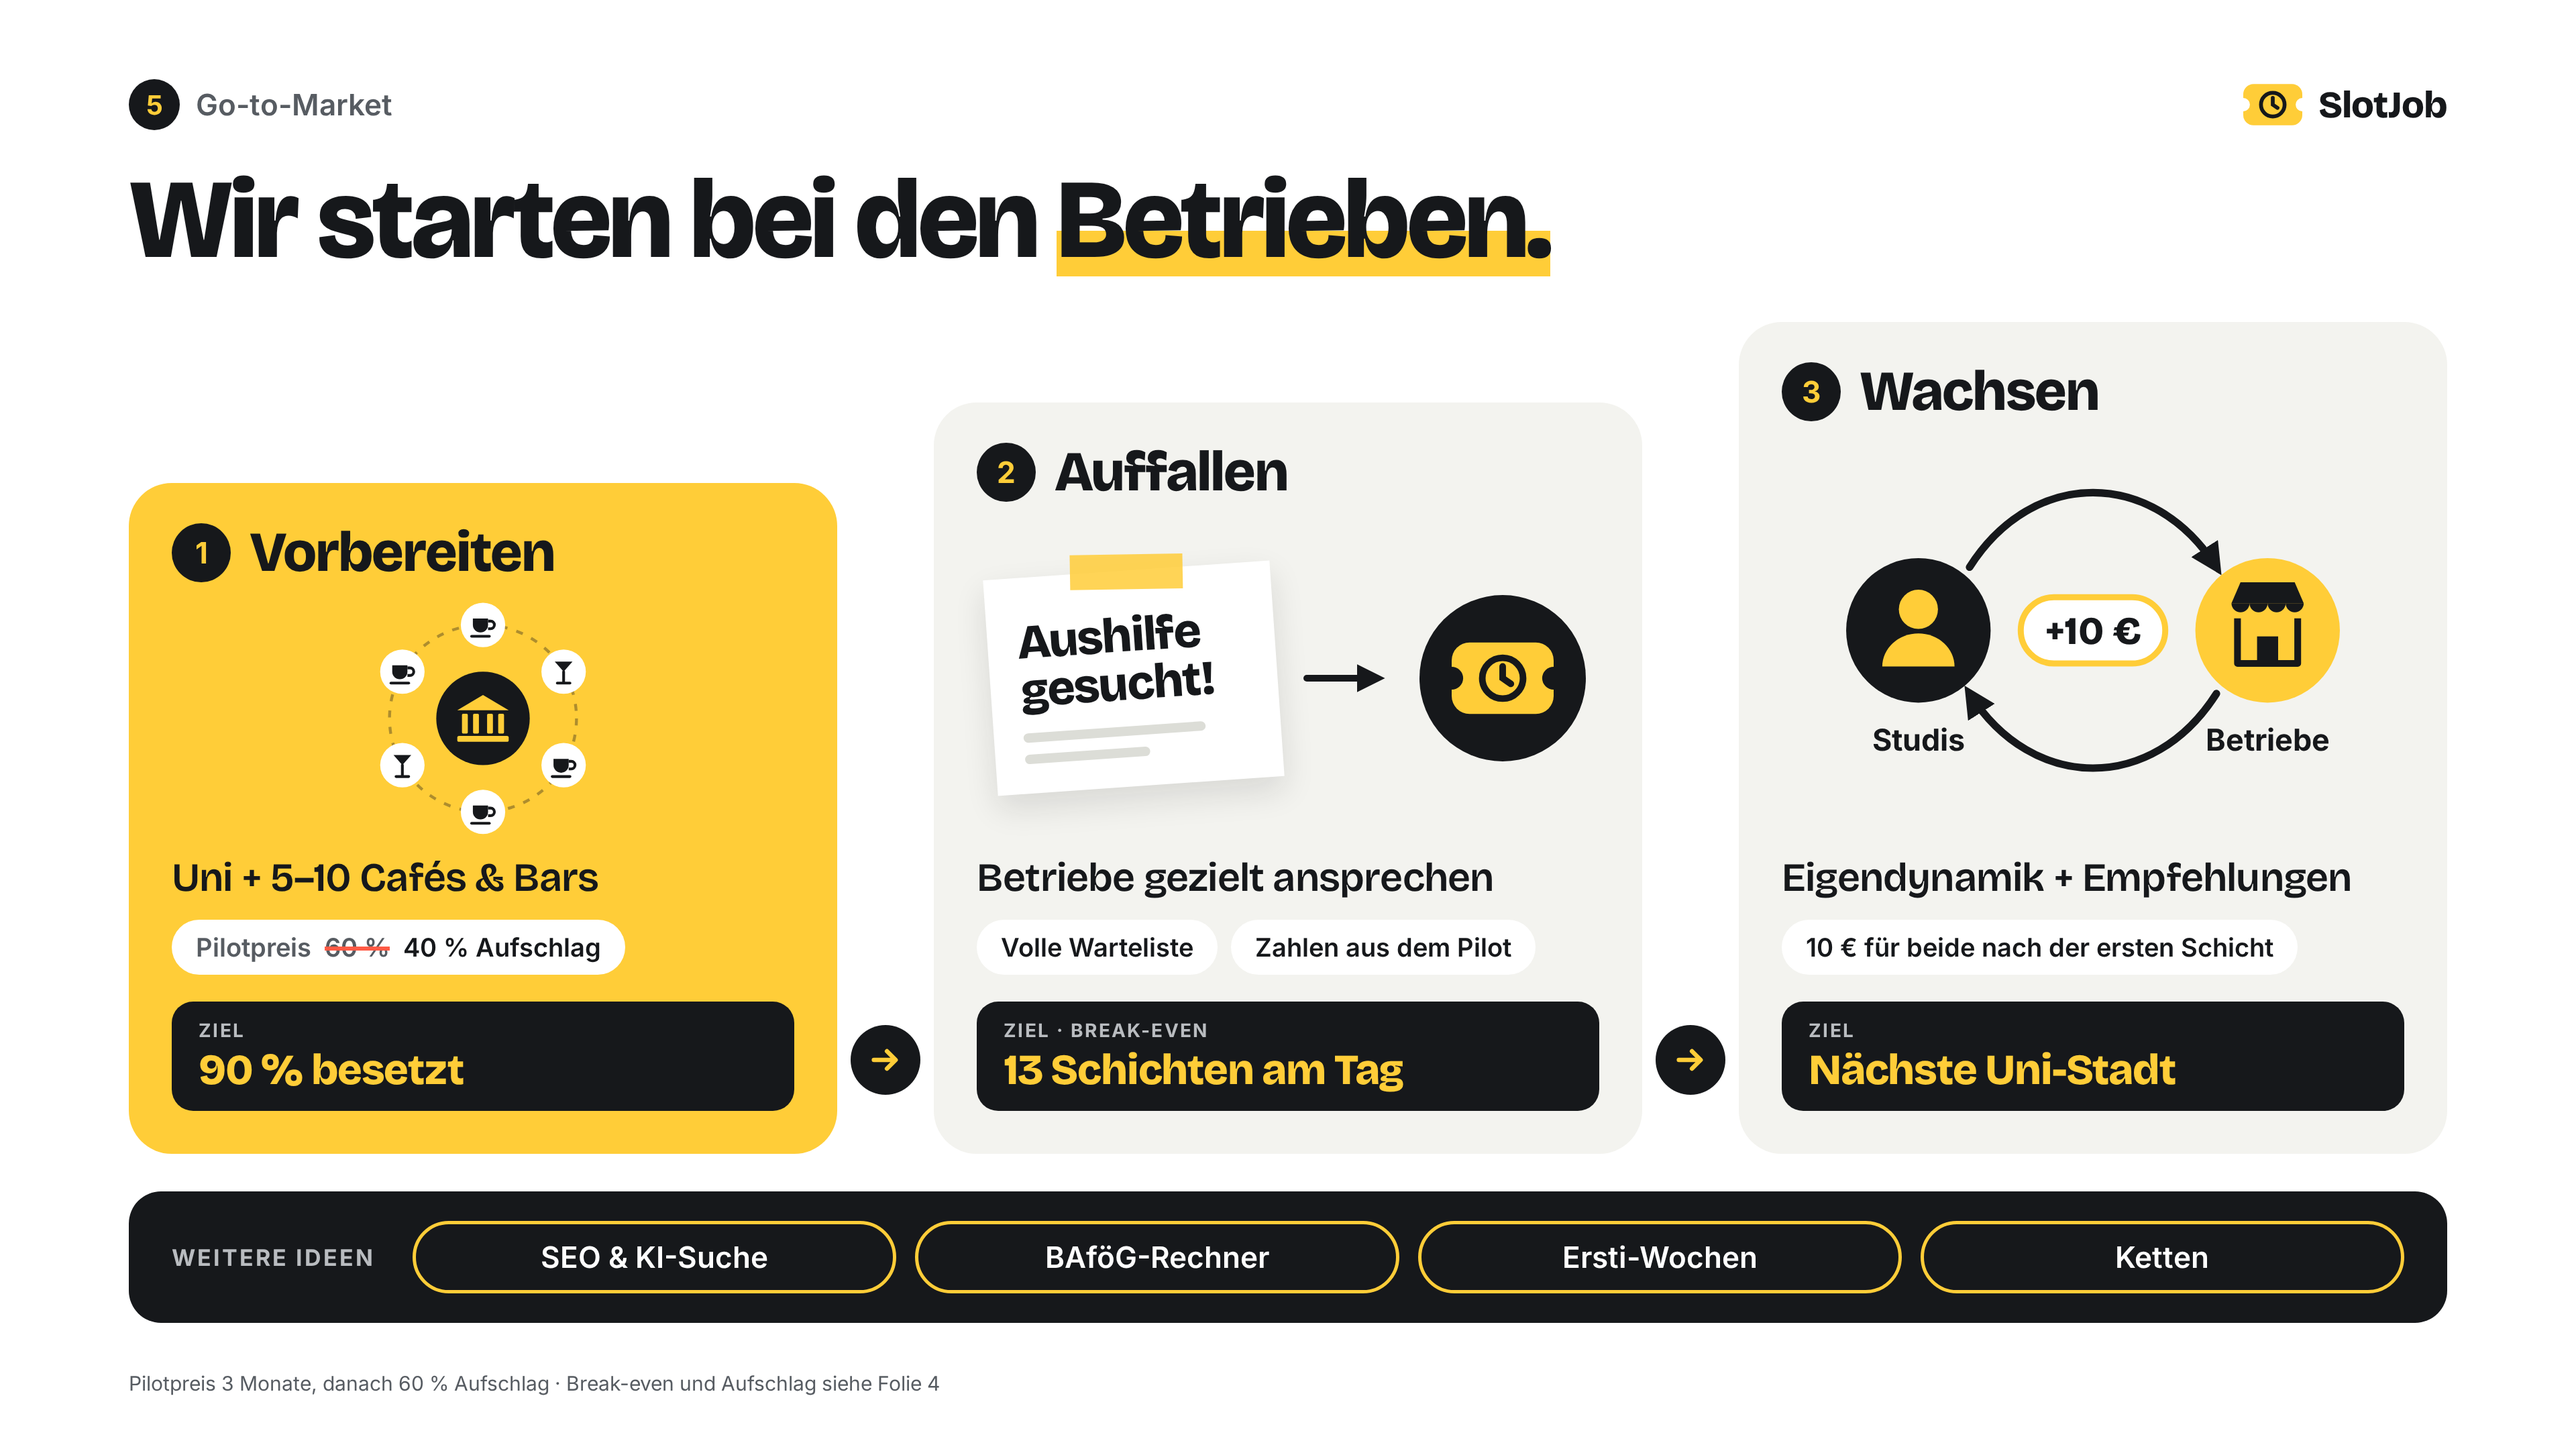
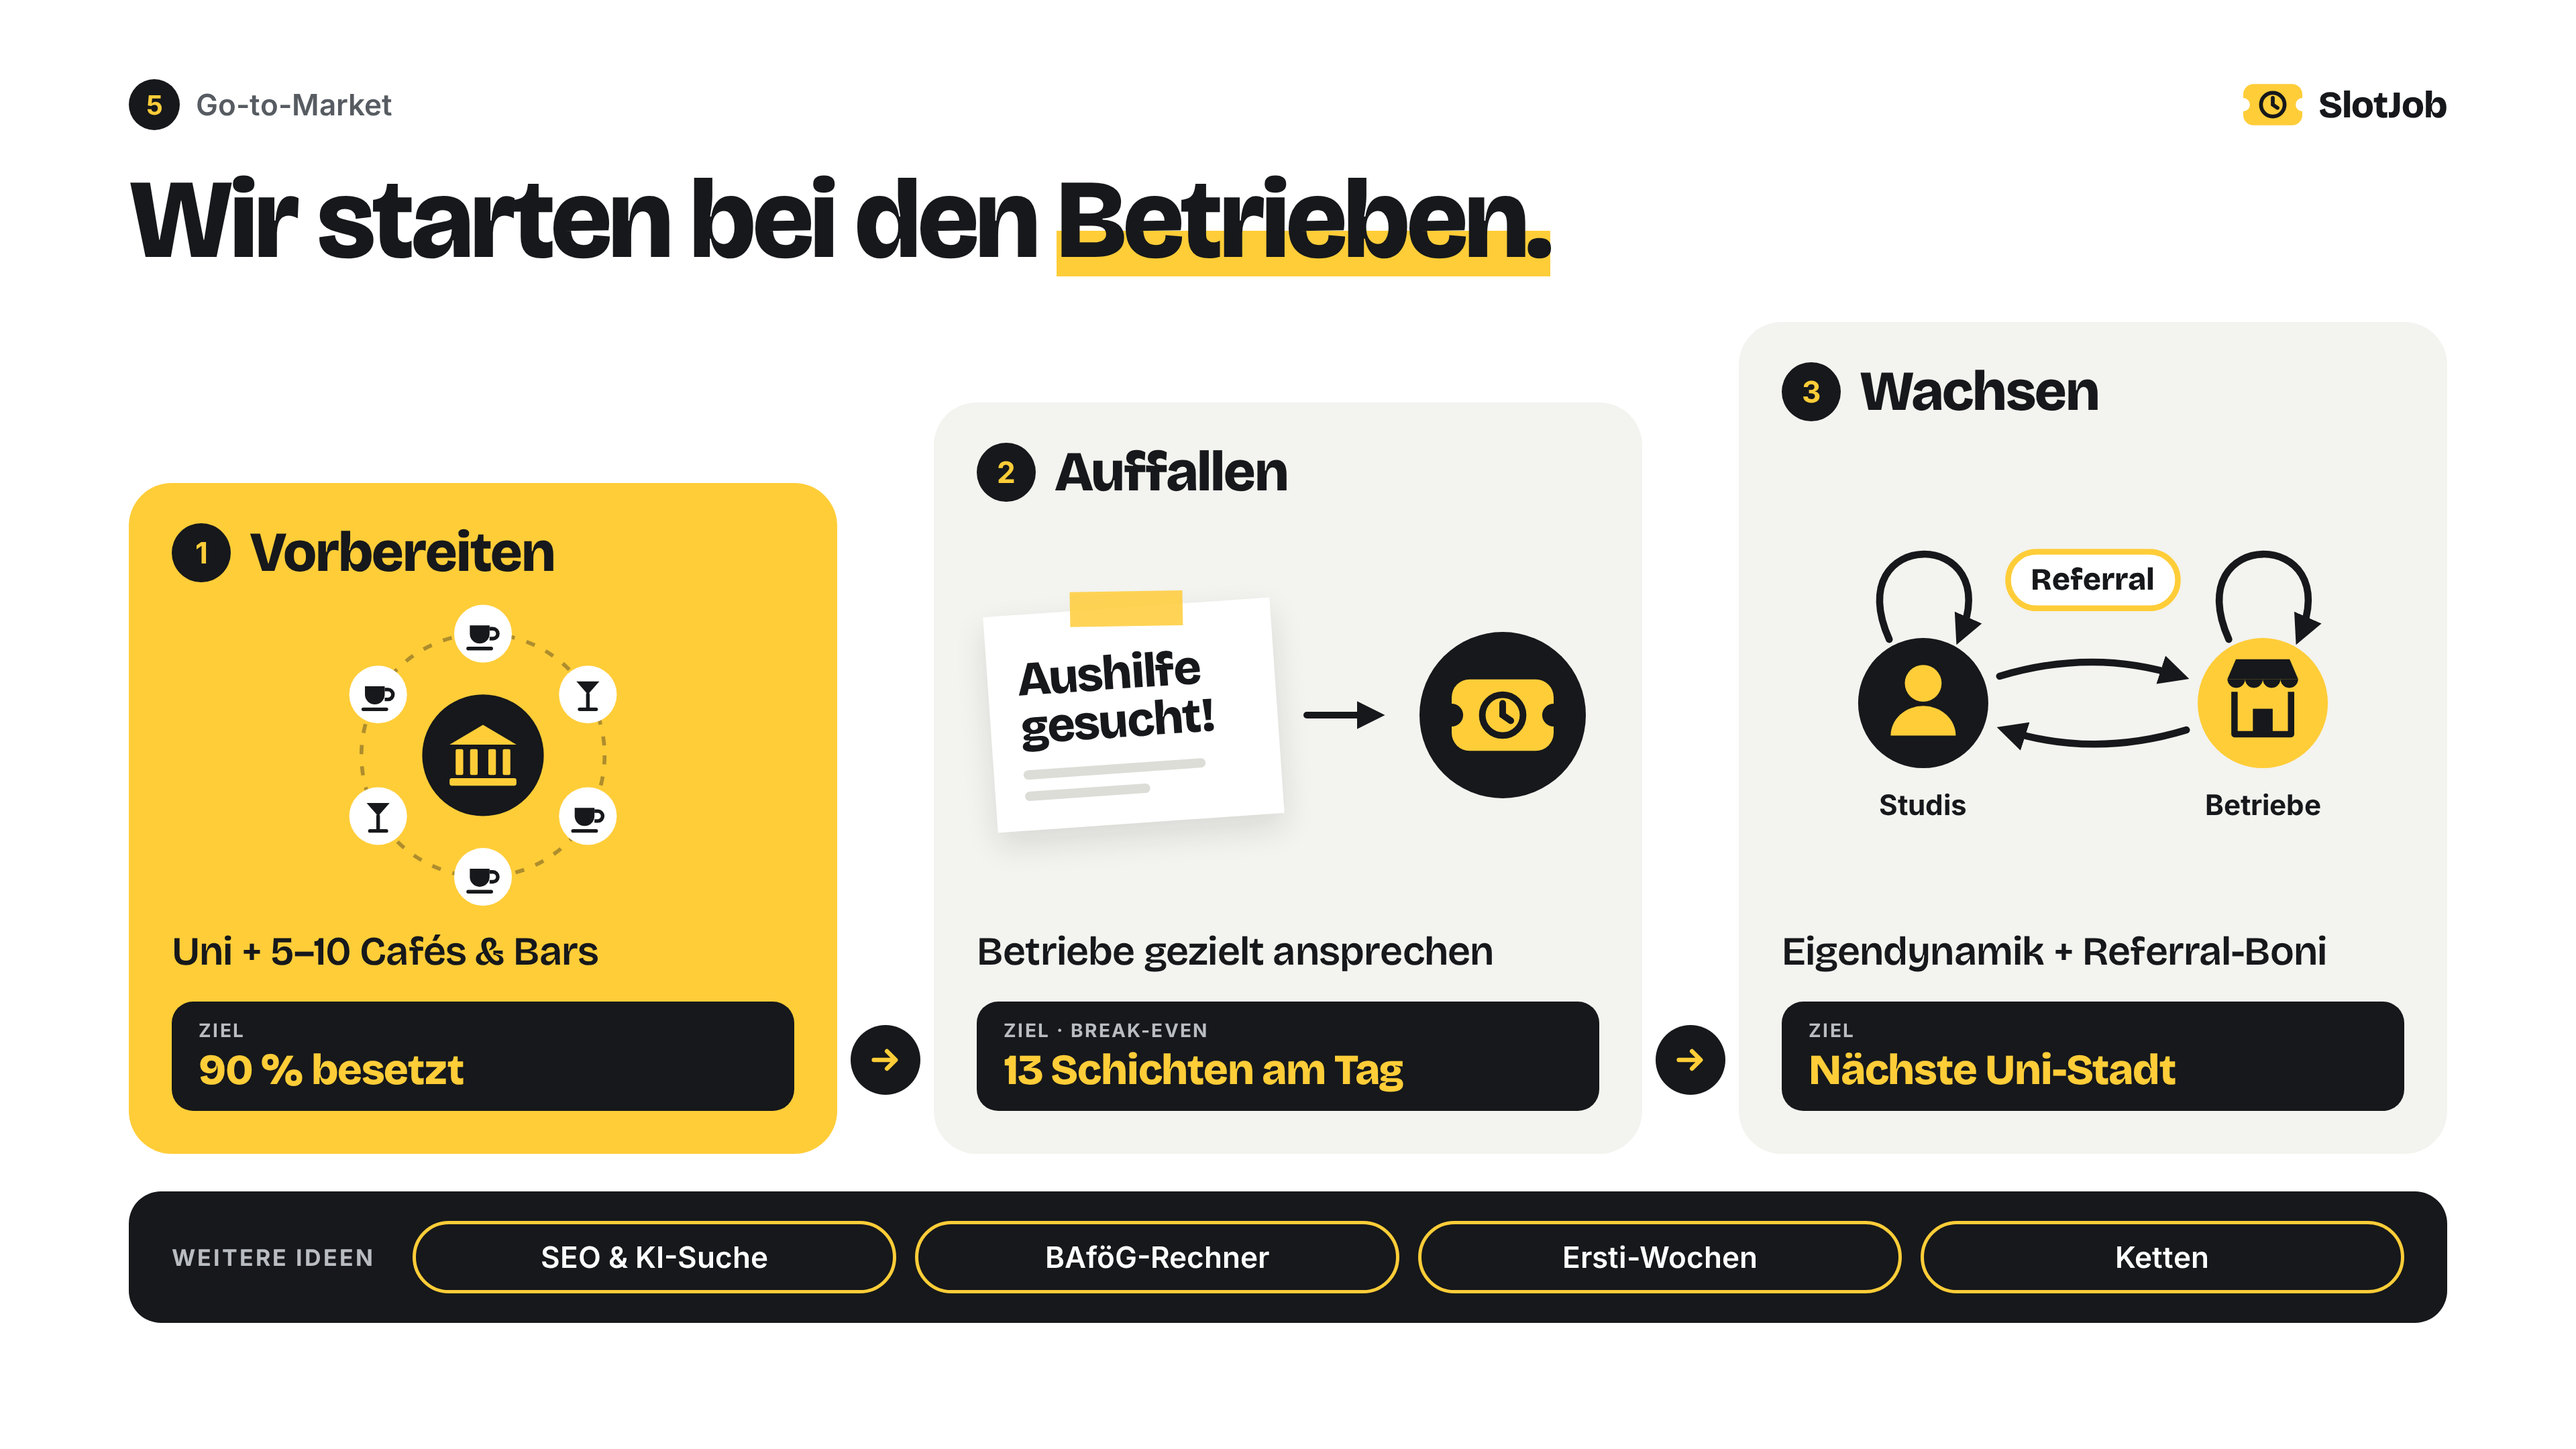
Slide 5 slimmer: no white tags or footer; Wachsen shows referral loops on both sides plus the loop between students and businesses

diff --git a/pitch/folie-5-go-to-market.html b/pitch/folie-5-go-to-market.html
@@ -41,10 +41,6 @@
   .visual svg{width:100%;height:100%;display:block}
 
   .what{font-family:var(--display);font-weight:600;font-size:30px;letter-spacing:-.4px;line-height:1.15}
-  .tags{display:flex;flex-wrap:wrap;gap:10px;margin-top:14px}
-  .tag{display:inline-flex;align-items:baseline;gap:10px;background:#fff;border-radius:999px;padding:9px 18px;font-size:19px;font-weight:600}
-  .tag s{color:var(--mute);text-decoration-color:var(--coral);text-decoration-thickness:3px}
-  .tag .lbl{color:var(--mute)}
 
   .goal{margin-top:20px;background:var(--ink);color:#fff;border-radius:16px;padding:13px 20px 14px}
   .goal small{display:block;font-size:14px;font-weight:700;letter-spacing:1.2px;text-transform:uppercase;color:#b9bcc0}
@@ -69,7 +65,6 @@
   .chips{display:flex;gap:14px;flex:1}
   .chip{flex:1;text-align:center;border:2.5px solid var(--sun);border-radius:999px;padding:11px 14px;color:#fff;font-size:22px;font-weight:600;white-space:nowrap}
 
-  .foot{margin-top:auto;padding-top:14px;font-size:15px;color:var(--mute)}
 </style>
 </head>
 <body>
@@ -138,7 +133,6 @@
         </svg>
       </div>
       <div class="what">Uni + 5–10 Cafés &amp; Bars</div>
-      <div class="tags"><span class="tag"><span class="lbl">Pilotpreis</span><s>60 %</s> 40 % Aufschlag</span></div>
       <div class="goal"><small>Ziel</small><span>90 % besetzt</span></div>
     </div>
 
@@ -163,7 +157,6 @@
         </div>
       </div>
       <div class="what">Betriebe gezielt ansprechen</div>
-      <div class="tags"><span class="tag">Volle Warteliste</span><span class="tag">Zahlen aus dem Pilot</span></div>
       <div class="goal"><small>Ziel · Break-even</small><span>13 Schichten am Tag</span></div>
     </div>
 
@@ -173,29 +166,30 @@
     <div class="phase p3">
       <div class="head"><b>3</b><span>Wachsen</span></div>
       <div class="visual">
-        <svg viewBox="0 0 400 270" aria-hidden="true">
-          <!-- Kreislauf -->
-          <path d="M118 88C160 22 240 22 282 88" fill="none" stroke="#16181b" stroke-width="5" stroke-linecap="round" marker-end="url(#ah)"/>
-          <path d="M282 172C240 238 160 238 118 172" fill="none" stroke="#16181b" stroke-width="5" stroke-linecap="round" marker-end="url(#ah)"/>
+        <svg viewBox="0 40 440 222" aria-hidden="true">
+          <!-- Studis werben Studis, Betriebe werben Betriebe -->
+          <path d="M76 126C40 46 160 46 126 124" fill="none" stroke="#16181b" stroke-width="5" stroke-linecap="round" marker-end="url(#ah)"/>
+          <path d="M316 126C280 46 400 46 366 124" fill="none" stroke="#16181b" stroke-width="5" stroke-linecap="round" marker-end="url(#ah)"/>
+          <rect x="160" y="64" width="120" height="40" rx="20" fill="#fff" stroke="#ffcd38" stroke-width="4"/>
+          <text x="220" y="91" text-anchor="middle" font-family="'Bricolage Grotesque',system-ui,sans-serif" font-weight="800" font-size="22" fill="#16181b">Referral</text>
+          <!-- Studis und Betriebe ziehen sich gegenseitig an -->
+          <path d="M154 152Q220 132 282 152" fill="none" stroke="#16181b" stroke-width="5" stroke-linecap="round" marker-end="url(#ah)"/>
+          <path d="M286 190Q220 210 158 190" fill="none" stroke="#16181b" stroke-width="5" stroke-linecap="round" marker-end="url(#ah)"/>
           <!-- Studis -->
-          <circle cx="84" cy="130" r="48" fill="#16181b"/>
-          <circle cx="84" cy="116" r="13" fill="#ffcd38"/>
-          <path d="M60 154a24 22 0 0 1 48 0z" fill="#ffcd38"/>
-          <text x="84" y="210" text-anchor="middle" font-family="Inter,system-ui,sans-serif" font-weight="700" font-size="20" fill="#16181b">Studis</text>
+          <circle cx="100" cy="171" r="46" fill="#16181b"/>
+          <circle cx="100" cy="157" r="13" fill="#ffcd38"/>
+          <path d="M77 194a23 21 0 0 1 46 0z" fill="#ffcd38"/>
+          <text x="100" y="250" text-anchor="middle" font-family="Inter,system-ui,sans-serif" font-weight="700" font-size="20" fill="#16181b">Studis</text>
           <!-- Betriebe -->
-          <circle cx="316" cy="130" r="48" fill="#ffcd38"/>
-          <path d="M292 112l6-14h36l6 14z" fill="#16181b"/>
-          <path d="M292 112a6 6 0 0 0 12 0a6 6 0 0 0 12 0a6 6 0 0 0 12 0a6 6 0 0 0 12 0" fill="#16181b"/>
-          <path d="M296 122v30h40v-30" fill="none" stroke="#16181b" stroke-width="4.5" stroke-linejoin="round"/>
-          <rect x="309" y="134" width="14" height="18" fill="#16181b"/>
-          <text x="316" y="210" text-anchor="middle" font-family="Inter,system-ui,sans-serif" font-weight="700" font-size="20" fill="#16181b">Betriebe</text>
-          <!-- Empfehlung -->
-          <rect x="152" y="108" width="96" height="44" rx="22" fill="#fff" stroke="#ffcd38" stroke-width="4"/>
-          <text x="200" y="139" text-anchor="middle" font-family="'Bricolage Grotesque',system-ui,sans-serif" font-weight="800" font-size="26" fill="#16181b">+10 €</text>
+          <circle cx="340" cy="171" r="46" fill="#ffcd38"/>
+          <path d="M315 154l6-14h38l6 14z" fill="#16181b"/>
+          <path d="M315 154a6.25 6.25 0 0 0 12.5 0a6.25 6.25 0 0 0 12.5 0a6.25 6.25 0 0 0 12.5 0a6.25 6.25 0 0 0 12.5 0" fill="#16181b"/>
+          <path d="M320 163v30h40v-30" fill="none" stroke="#16181b" stroke-width="4.5" stroke-linejoin="round"/>
+          <rect x="333" y="175" width="14" height="18" fill="#16181b"/>
+          <text x="340" y="250" text-anchor="middle" font-family="Inter,system-ui,sans-serif" font-weight="700" font-size="20" fill="#16181b">Betriebe</text>
         </svg>
       </div>
-      <div class="what">Eigendynamik + Empfehlungen</div>
-      <div class="tags"><span class="tag">10 € für beide nach der ersten Schicht</span></div>
+      <div class="what">Eigendynamik + Referral-Boni</div>
       <div class="goal"><small>Ziel</small><span>Nächste Uni-Stadt</span></div>
     </div>
 
@@ -210,8 +204,6 @@
       <span class="chip">Ketten</span>
     </div>
   </div>
-
-  <div class="foot">Pilotpreis 3 Monate, danach 60 % Aufschlag · Break-even und Aufschlag siehe Folie 4</div>
 
 </div>
 </body>

diff --git a/docs/go-to-market.md b/docs/go-to-market.md
@@ -12,9 +12,11 @@ Feedback aus der Probe: zu viel Inhalt. Nur das Kernprinzip zeigen. Kein Gratis-
 |---|---|---|
 | 1 Vorbereiten | Uni-Jobs + 5–10 Cafés und Bars am Campus. Pilotpreis 3 Monate: 40 % statt 60 % Aufschlag. Nebenbei Warteliste für Studis. | 90 % der Schichten besetzt |
 | 2 Auffallen | Betriebe gezielt ansprechen, wenn sie suchen („Aushilfe gesucht“). Argumente: volle Warteliste und Zahlen aus dem Pilot. | 13 Schichten am Tag = Break-even (Folie 4) |
-| 3 Wachsen | Eigendynamik (mehr Studis → schneller besetzt → mehr Betriebe) + Empfehlungen (10 € für beide nach der ersten Schicht) | nächste Uni-Stadt |
+| 3 Wachsen | Eigendynamik (mehr Studis → schneller besetzt → mehr Betriebe) + Referral-Boni auf beiden Seiten: Studis werben Studis, Betriebe werben Betriebe | nächste Uni-Stadt |
 
 Weitere Ideen nur nennen: SEO und KI-Suche, BAföG-Rechner, Ersti-Wochen, Ketten.
+
+Auf der Folie stehen nur Phase, Bild, eine Zeile und das Ziel. Pilotpreis, Warteliste und Bonushöhe kommen nur im Redetext vor.
 
 Pilotpreis rechnet sich noch: 4 h × 15 € = 60 € Lohn, mit 40 % Aufschlag zahlt der Betrieb 84 €. Kosten laut Folie 4: 80 €. Bleiben 4 € pro Schicht statt 16 €.
 
